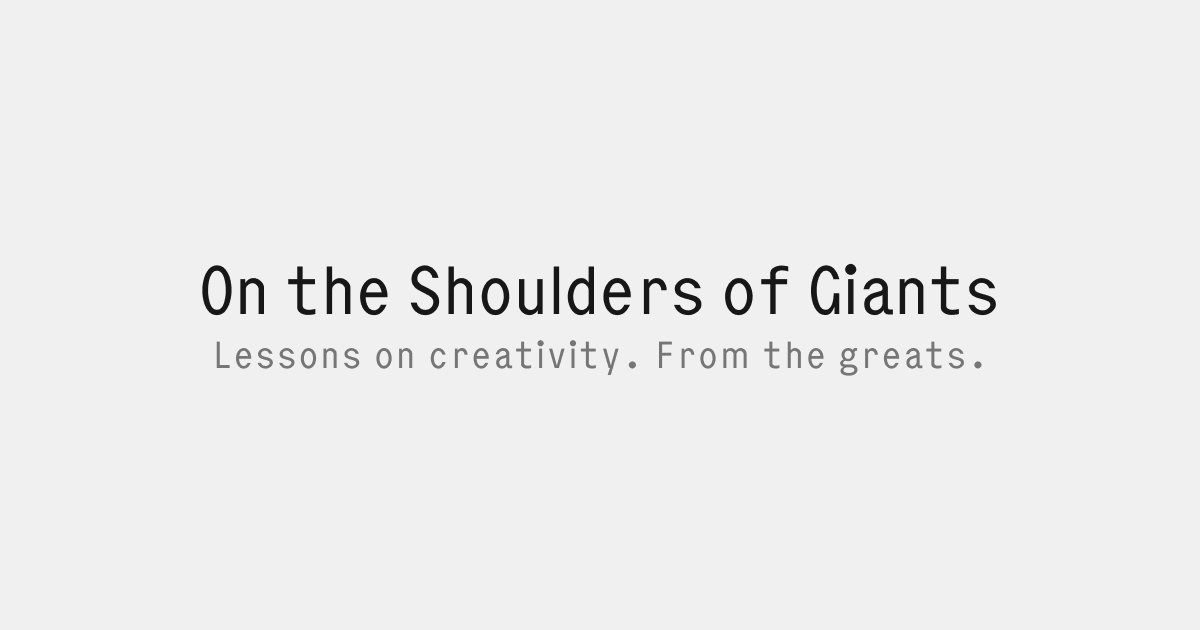
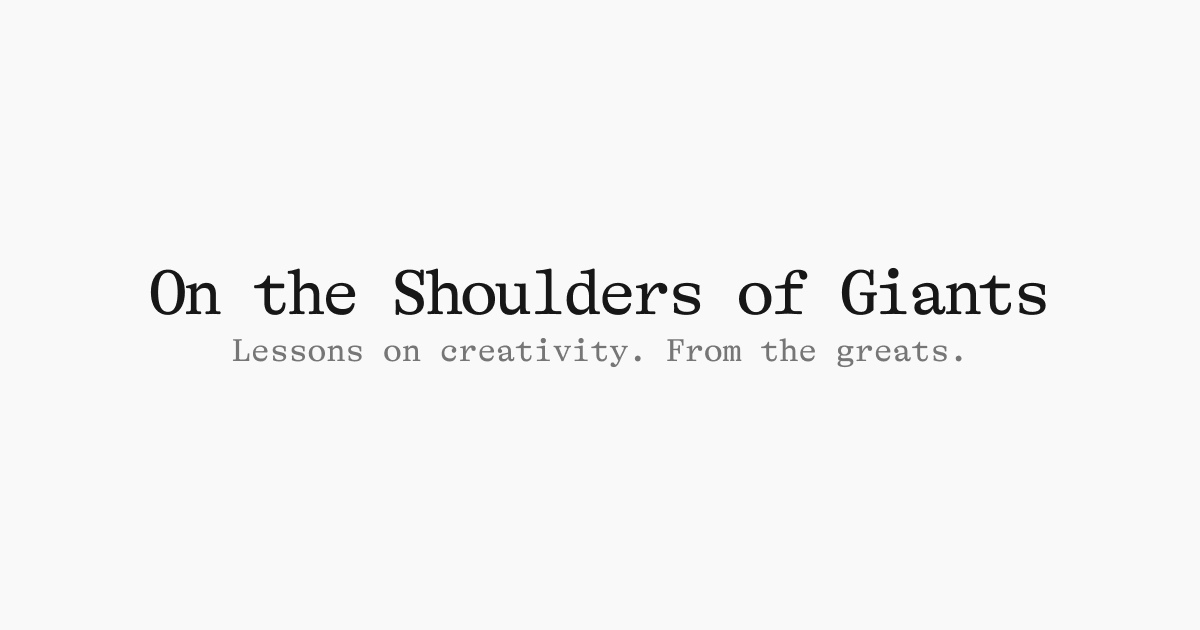
Changing typeface again to GT Alpina Tw

Changed region(s): [[0.1233, 0.4222, 0.8942, 0.5127], [0.1542, 0.5429, 0.8017, 0.6032]]

diff --git a/special-projects/on-the-shoulders-of-giants/fonts/fonts.css b/special-projects/on-the-shoulders-of-giants/fonts/fonts.css
@@ -1,21 +1,21 @@
 @font-face {
-    /* font-family: 'GT Alpina Typewriter';
+    font-family: 'GT Alpina Typewriter';
     src: url('GT-Alpina-Typewriter-Light.otf');
         font-style: normal;
-        font-weight: 400; */
-    font-family: 'Elma Trio Regular';
+        font-weight: 300;
+    /* font-family: 'Elma Trio Regular';
     src: url('Elma\ Trio\ Regular.woff2') format(woff2);
         font-style: normal;
-        font-weight: 400;
+        font-weight: 400; */
 }
 
 @font-face {
-    /* font-family: 'GT Alpina Typewriter';
+    font-family: 'GT Alpina Typewriter';
     src: url('GT-Alpina-Typewriter-Light-Italic-Trial.otf');
         font-style: italic;
-        font-weight: 400; */
-    font-family: 'Elma Trio Regular';
+        font-weight: 300;
+    /* font-family: 'Elma Trio Regular';
     src: url('Elma\ Trio\ Regular.woff2') format(woff2);
         font-style: italic;
-        font-weight: 400;
+        font-weight: 400; */
 }

diff --git a/special-projects/on-the-shoulders-of-giants/css/streams.css b/special-projects/on-the-shoulders-of-giants/css/streams.css
@@ -95,8 +95,8 @@ textarea {
 
 
 html {
-    font-family: "Elma Trio Regular", Helvetica, sans-serif;
-    /* font-family: "GT Alpina Typewriter", Helvetica, sans-serif; */
+    /* font-family: "Elma Trio Regular", Helvetica, sans-serif; */
+    font-family: "GT Alpina Typewriter", Helvetica, sans-serif;
     font-feature-settings: normal;
     font-kerning: auto;
     font-optical-sizing: auto;
@@ -111,8 +111,8 @@ body {
 }
 
 button {
-    font-family: "Elma Trio Regular", Helvetica, sans-serif;
-    /* font-family: "GT Alpina Typewriter", Helvetica, sans-serif; */
+    /* font-family: "Elma Trio Regular", Helvetica, sans-serif; */
+    font-family: "GT Alpina Typewriter", Helvetica, sans-serif;
     text-transform: uppercase;
     background: transparent;
     border-radius: 12px;
